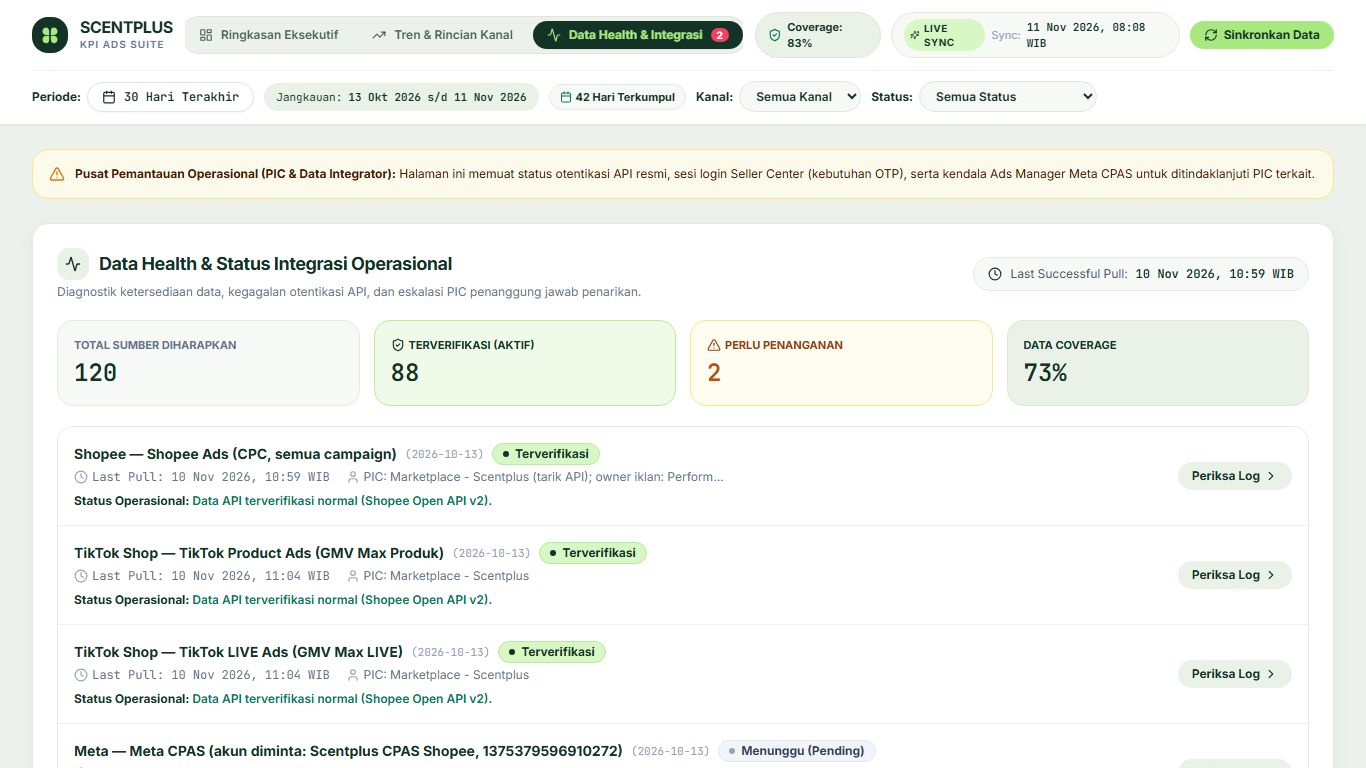
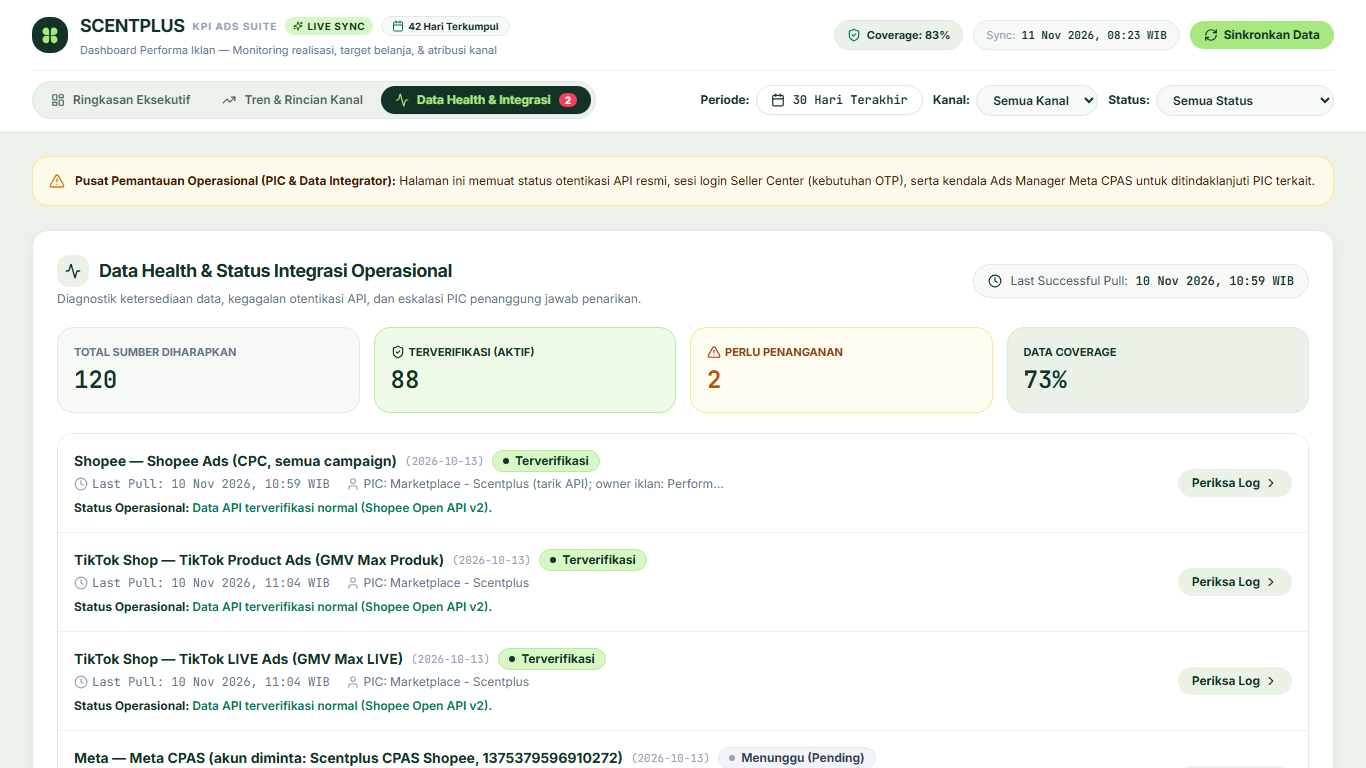
refactor(ui): restructure header into clean 2-row layout and remove redundant Jangkauan badge

diff --git a/src/components/Header.tsx b/src/components/Header.tsx
@@ -64,48 +64,98 @@ export const Header: React.FC<HeaderProps> = ({
   return (
     <header className="bg-white/95 backdrop-blur-md border-b border-[#E2EBE0] sticky top-0 z-30 shadow-2xs">
       <div className="max-w-[1600px] mx-auto px-4 sm:px-6 lg:px-8 py-3">
-        {/* Row 1: Brand Logo + Primary Nav Tabs + Actions */}
-        <div className="flex flex-col lg:flex-row lg:items-center justify-between gap-3 pb-3 border-b border-[#ECF2EB]">
-          {/* Brand Identity & Mobile Controls */}
-          <div className="flex items-center justify-between gap-4">
-            <div className="flex items-center gap-3">
-              {/* Botanical 4-Leaf Clover Emblem */}
-              <div className="w-9 h-9 rounded-2xl bg-[#133326] flex items-center justify-center shadow-sm shrink-0">
-                <svg
-                  viewBox="0 0 24 24"
-                  className="w-5 h-5 fill-[#A7E97F]"
-                  aria-hidden="true"
-                >
-                  <path d="M7.5 3C5.01 3 3 5.01 3 7.5C3 9.99 5.01 12 7.5 12H11V7.5C11 5.01 8.99 3 7.5 3ZM16.5 3C14.01 3 13 5.01 13 7.5V12H16.5C18.99 12 21 9.99 21 7.5C21 5.01 18.99 3 16.5 3ZM7.5 13C5.01 13 3 15.01 3 17.5C3 19.99 5.01 22 7.5 22C9.99 22 11 19.99 11 17.5V13H7.5ZM13 13V17.5C13 19.99 15.01 22 16.5 22C18.99 22 21 19.99 21 17.5C21 15.01 18.99 13 16.5 13H13Z" />
-                </svg>
-              </div>
-              <div>
-                <span className="text-base font-extrabold tracking-tight text-[#133326] block leading-none">
-                  SCENTPLUS
-                </span>
-                <span className="text-3xs font-semibold uppercase tracking-widest text-slate-500 mt-0.5 block">
-                  KPI Ads Suite
-                </span>
-              </div>
+        {/* ================================================================= */}
+        {/* ROW 1: Branding Identity (Left) & Live Sync / Status Bar (Right)  */}
+        {/* ================================================================= */}
+        <div className="flex flex-wrap items-center justify-between gap-3 pb-3 border-b border-[#ECF2EB]">
+          {/* Left: Brand Identity + Live Sync & Days Collected Badges */}
+          <div className="flex items-center gap-3 min-w-0">
+            {/* Botanical 4-Leaf Clover Emblem */}
+            <div className="w-9 h-9 rounded-2xl bg-[#133326] flex items-center justify-center shadow-sm shrink-0">
+              <svg
+                viewBox="0 0 24 24"
+                className="w-5 h-5 fill-[#A7E97F]"
+                aria-hidden="true"
+              >
+                <path d="M7.5 3C5.01 3 3 5.01 3 7.5C3 9.99 5.01 12 7.5 12H11V7.5C11 5.01 8.99 3 7.5 3ZM16.5 3C14.01 3 13 5.01 13 7.5V12H16.5C18.99 12 21 9.99 21 7.5C21 5.01 18.99 3 16.5 3ZM7.5 13C5.01 13 3 15.01 3 17.5C3 19.99 5.01 22 7.5 22C9.99 22 11 19.99 11 17.5V13H7.5ZM13 13V17.5C13 19.99 15.01 22 16.5 22C18.99 22 21 19.99 21 17.5C21 15.01 18.99 13 16.5 13H13Z" />
+              </svg>
             </div>
 
-            {/* Mobile-only Coverage badge */}
-            <span className="lg:hidden inline-flex items-center gap-1 px-2.5 py-1 rounded-full text-2xs font-bold bg-[#D7F7C4] text-[#133326]">
-              <ShieldCheck className="w-3.5 h-3.5" />
-              {formatPercent(dataCoverage)}
-            </span>
+            <div className="min-w-0">
+              <div className="flex flex-wrap items-center gap-2">
+                <span className="text-base sm:text-lg font-extrabold tracking-tight text-[#133326] leading-none">
+                  SCENTPLUS
+                </span>
+                <span className="text-3xs font-bold uppercase tracking-widest text-slate-400 hidden sm:inline">
+                  KPI ADS SUITE
+                </span>
+                <span className="inline-flex items-center gap-1 px-2 py-0.5 text-3xs font-extrabold uppercase tracking-wider bg-[#D7F7C4] text-[#133326] rounded-full whitespace-nowrap shrink-0">
+                  <Sparkles className="w-2.5 h-2.5" />
+                  Live Sync
+                </span>
+                {availableDates.length > 1 && (
+                  <span className="hidden md:inline-flex items-center gap-1 px-2.5 py-0.5 text-3xs font-bold bg-[#F6F9F5] text-[#133326] border border-[#E2EBE0] rounded-full whitespace-nowrap shrink-0">
+                    <Calendar className="w-3 h-3 text-emerald-700" />
+                    {availableDates.length} Hari Terkumpul
+                  </span>
+                )}
+              </div>
+              <p className="text-2xs text-slate-500 mt-0.5 truncate">
+                Dashboard Performa Iklan — Monitoring realisasi, target belanja, & atribusi kanal
+              </p>
+            </div>
           </div>
 
-          {/* Primary Navigation Tabs (Pill style in botanical sage track) */}
+          {/* Right: Coverage Pill + Single-Line Sync Timestamp + Refresh Action */}
+          <div className="flex items-center gap-2 sm:gap-2.5 shrink-0 ml-auto">
+            {/* Data Coverage Badge */}
+            <span className="inline-flex items-center gap-1.5 px-3 py-1.5 rounded-full text-2xs font-bold bg-[#EAF2E8] text-[#133326] border border-[#DCE8DA] whitespace-nowrap shrink-0">
+              <ShieldCheck className="w-3.5 h-3.5 text-emerald-700 shrink-0" />
+              <span>
+                Coverage: <strong>{formatPercent(dataCoverage)}</strong>
+              </span>
+            </span>
+
+            {/* Single-Line Sync Timestamp (Never wraps WIB onto 2nd line) */}
+            <div className="hidden sm:inline-flex items-center gap-1.5 text-2xs bg-[#F6F9F5] px-3 py-1.5 rounded-full border border-[#E2EBE0] text-slate-500 whitespace-nowrap shrink-0">
+              <span className="text-slate-400">Sync:</span>
+              <span className="font-mono text-[#133326] font-bold">
+                {lastFetchedAt ? formatDateWIB(lastFetchedAt.toISOString()) : 'Memuat...'}
+              </span>
+            </div>
+
+            {/* Refresh / Sync Button */}
+            <button
+              type="button"
+              onClick={onRefresh}
+              disabled={isRefreshing}
+              aria-label="Segarkan data spreadsheet"
+              className="inline-flex items-center gap-1.5 px-3.5 py-1.5 text-xs font-bold text-[#133326] bg-[#A7E97F] hover:bg-[#95DF69] rounded-full transition-all active:scale-[0.98] disabled:opacity-60 disabled:cursor-not-allowed shadow-2xs whitespace-nowrap shrink-0"
+            >
+              <RefreshCw
+                className={`w-3.5 h-3.5 shrink-0 ${
+                  isRefreshing ? 'animate-spin text-[#133326]' : 'text-[#133326]'
+                }`}
+              />
+              <span>{isRefreshing ? 'Menyinkronkan...' : 'Sinkronkan Data'}</span>
+            </button>
+          </div>
+        </div>
+
+        {/* ================================================================= */}
+        {/* ROW 2: Primary Navigation Tabs (Left) & Filter Controls (Right)   */}
+        {/* ================================================================= */}
+        <div className="pt-2.5 flex flex-col lg:flex-row lg:items-center justify-between gap-3">
+          {/* Left: 3 Primary Navigation Tabs — Full unclipped room */}
           <nav
             aria-label="Navigasi Bagian Dashboard"
-            className="flex items-center gap-1.5 overflow-x-auto pb-1 lg:pb-0 scrollbar-none"
+            className="flex items-center overflow-x-auto sm:overflow-visible no-scrollbar shrink-0"
           >
-            <div className="flex items-center gap-1.5 bg-[#ECF2EB] p-1 rounded-full border border-[#DCE8DA]">
+            <div className="inline-flex items-center gap-1 bg-[#ECF2EB] p-1 rounded-full border border-[#DCE8DA]">
               <button
                 type="button"
                 onClick={() => onTabChange('overview')}
-                className={`inline-flex items-center gap-2 px-3.5 py-1.5 text-xs rounded-full transition-all whitespace-nowrap ${
+                className={`inline-flex items-center gap-2 px-3.5 py-1.5 text-xs rounded-full transition-all whitespace-nowrap shrink-0 ${
                   activeTab === 'overview'
                     ? 'bg-[#133326] text-[#A7E97F] font-extrabold shadow-sm'
                     : 'text-[#133326]/75 font-semibold hover:text-[#133326] hover:bg-white/60'
@@ -118,7 +168,7 @@ export const Header: React.FC<HeaderProps> = ({
               <button
                 type="button"
                 onClick={() => onTabChange('analytics')}
-                className={`inline-flex items-center gap-2 px-3.5 py-1.5 text-xs rounded-full transition-all whitespace-nowrap ${
+                className={`inline-flex items-center gap-2 px-3.5 py-1.5 text-xs rounded-full transition-all whitespace-nowrap shrink-0 ${
                   activeTab === 'analytics'
                     ? 'bg-[#133326] text-[#A7E97F] font-extrabold shadow-sm'
                     : 'text-[#133326]/75 font-semibold hover:text-[#133326] hover:bg-white/60'
@@ -131,7 +181,7 @@ export const Header: React.FC<HeaderProps> = ({
               <button
                 type="button"
                 onClick={() => onTabChange('health')}
-                className={`inline-flex items-center gap-2 px-3.5 py-1.5 text-xs rounded-full transition-all whitespace-nowrap ${
+                className={`inline-flex items-center gap-2 px-3.5 py-1.5 text-xs rounded-full transition-all whitespace-nowrap shrink-0 ${
                   activeTab === 'health'
                     ? 'bg-[#133326] text-[#A7E97F] font-extrabold shadow-sm'
                     : 'text-[#133326]/75 font-semibold hover:text-[#133326] hover:bg-white/60'
@@ -148,50 +198,11 @@ export const Header: React.FC<HeaderProps> = ({
             </div>
           </nav>
 
-          {/* Right Action: Live Sync Badge + Coverage + Refresh */}
-          <div className="flex items-center gap-2.5 self-end lg:self-center">
-            {/* Desktop Coverage Badge */}
-            <span className="hidden xl:inline-flex items-center gap-1.5 px-3 py-1.5 rounded-full text-2xs font-bold bg-[#EAF2E8] text-[#133326] border border-[#DCE8DA]">
-              <ShieldCheck className="w-3.5 h-3.5 text-emerald-700" />
-              <span>Coverage: <strong>{formatPercent(dataCoverage)}</strong></span>
-            </span>
-
-            {/* Sync Timestamp */}
-            <div className="hidden sm:flex items-center gap-1.5 text-xs bg-[#F6F9F5] px-3 py-1.5 rounded-full border border-[#E2EBE0] text-slate-500">
-              <span className="inline-flex items-center gap-1 px-1.5 py-0.5 text-3xs font-bold uppercase tracking-wider bg-[#D7F7C4] text-[#133326] rounded-full">
-                <Sparkles className="w-2.5 h-2.5" />
-                Live Sync
-              </span>
-              <span className="text-2xs text-slate-400">Sync:</span>
-              <span className="font-mono text-[#133326] font-bold text-2xs">
-                {lastFetchedAt ? formatDateWIB(lastFetchedAt.toISOString()) : 'Memuat...'}
-              </span>
-            </div>
-
-            {/* Refresh / Sync Button */}
-            <button
-              type="button"
-              onClick={onRefresh}
-              disabled={isRefreshing}
-              aria-label="Segarkan data spreadsheet"
-              className="inline-flex items-center gap-1.5 px-3.5 py-1.5 text-xs font-bold text-[#133326] bg-[#A7E97F] hover:bg-[#95DF69] rounded-full transition-all active:scale-[0.98] disabled:opacity-60 disabled:cursor-not-allowed shadow-2xs shrink-0"
-            >
-              <RefreshCw
-                className={`w-3.5 h-3.5 ${
-                  isRefreshing ? 'animate-spin text-[#133326]' : 'text-[#133326]'
-                }`}
-              />
-              <span>{isRefreshing ? 'Menyinkronkan...' : 'Sinkronkan Data'}</span>
-            </button>
-          </div>
-        </div>
-
-        {/* Row 2: Filter Bar */}
-        <div className="pt-2.5 flex flex-wrap items-center justify-between gap-3">
-          <div className="flex flex-wrap items-center gap-2.5">
+          {/* Right: Streamlined Filter Bar (Periode, Kanal, Status, Reset Filter) */}
+          <div className="flex flex-wrap items-center gap-2 sm:gap-2.5 lg:justify-end">
             {/* Interactive Calendar Date Range Picker */}
-            <div className="flex items-center gap-1.5 text-xs text-slate-600">
-              <label className="font-bold text-[#133326]">Periode:</label>
+            <div className="flex items-center gap-1.5 text-xs text-slate-600 shrink-0">
+              <label className="font-bold text-[#133326] whitespace-nowrap">Periode:</label>
               <DateRangePicker
                 startDate={filters.startDate}
                 endDate={filters.endDate}
@@ -209,23 +220,9 @@ export const Header: React.FC<HeaderProps> = ({
               />
             </div>
 
-            {/* Active Range Pill */}
-            <div className="hidden md:flex items-center gap-1.5 text-2xs bg-[#EAF2E8] text-[#133326] px-3 py-1.5 rounded-full font-mono">
-              <span>Jangkauan:</span>
-              <strong className="text-[#133326]">{activeDateRangeText}</strong>
-            </div>
-
-            {/* Total collected days pill */}
-            {availableDates.length > 1 && (
-              <span className="hidden lg:inline-flex items-center gap-1 px-2.5 py-1 text-2xs font-bold bg-[#F6F9F5] text-[#133326] border border-[#E2EBE0] rounded-full">
-                <Calendar className="w-3 h-3 text-emerald-700" />
-                {availableDates.length} Hari Terkumpul
-              </span>
-            )}
-
             {/* Kanal filter */}
-            <div className="flex items-center gap-1.5 text-xs text-slate-600">
-              <label htmlFor="filter-channel" className="font-bold text-[#133326]">
+            <div className="flex items-center gap-1.5 text-xs text-slate-600 shrink-0">
+              <label htmlFor="filter-channel" className="font-bold text-[#133326] whitespace-nowrap">
                 Kanal:
               </label>
               <select
@@ -244,8 +241,8 @@ export const Header: React.FC<HeaderProps> = ({
             </div>
 
             {/* Status data filter */}
-            <div className="flex items-center gap-1.5 text-xs text-slate-600">
-              <label htmlFor="filter-status" className="font-bold text-[#133326]">
+            <div className="flex items-center gap-1.5 text-xs text-slate-600 shrink-0">
+              <label htmlFor="filter-status" className="font-bold text-[#133326] whitespace-nowrap">
                 Status:
               </label>
               <select
@@ -261,19 +258,19 @@ export const Header: React.FC<HeaderProps> = ({
                 <option value="unavailable">Tidak Tersedia</option>
               </select>
             </div>
-          </div>
 
-          {/* Reset filter button */}
-          {isFilterActive && (
-            <button
-              type="button"
-              onClick={onResetFilters}
-              className="inline-flex items-center gap-1.5 text-xs font-bold text-rose-700 hover:text-rose-800 bg-rose-50 hover:bg-rose-100 border border-rose-200 px-3 py-1.5 rounded-full transition-colors"
-            >
-              <RotateCcw className="w-3 h-3" />
-              <span>Reset Filter</span>
-            </button>
-          )}
+            {/* Reset filter button — stays inline with filters */}
+            {isFilterActive && (
+              <button
+                type="button"
+                onClick={onResetFilters}
+                className="inline-flex items-center gap-1.5 text-xs font-bold text-rose-700 hover:text-rose-800 bg-rose-50 hover:bg-rose-100 border border-rose-200 px-3 py-1.5 rounded-full transition-colors whitespace-nowrap shrink-0"
+              >
+                <RotateCcw className="w-3 h-3 shrink-0" />
+                <span>Reset Filter</span>
+              </button>
+            )}
+          </div>
         </div>
       </div>
     </header>

diff --git a/src/index.css b/src/index.css
@@ -37,4 +37,14 @@
   background: #133326;
 }
 
+.no-scrollbar::-webkit-scrollbar {
+  display: none;
+}
+
+.no-scrollbar {
+  -ms-overflow-style: none;
+  scrollbar-width: none;
+}
+
+
 
